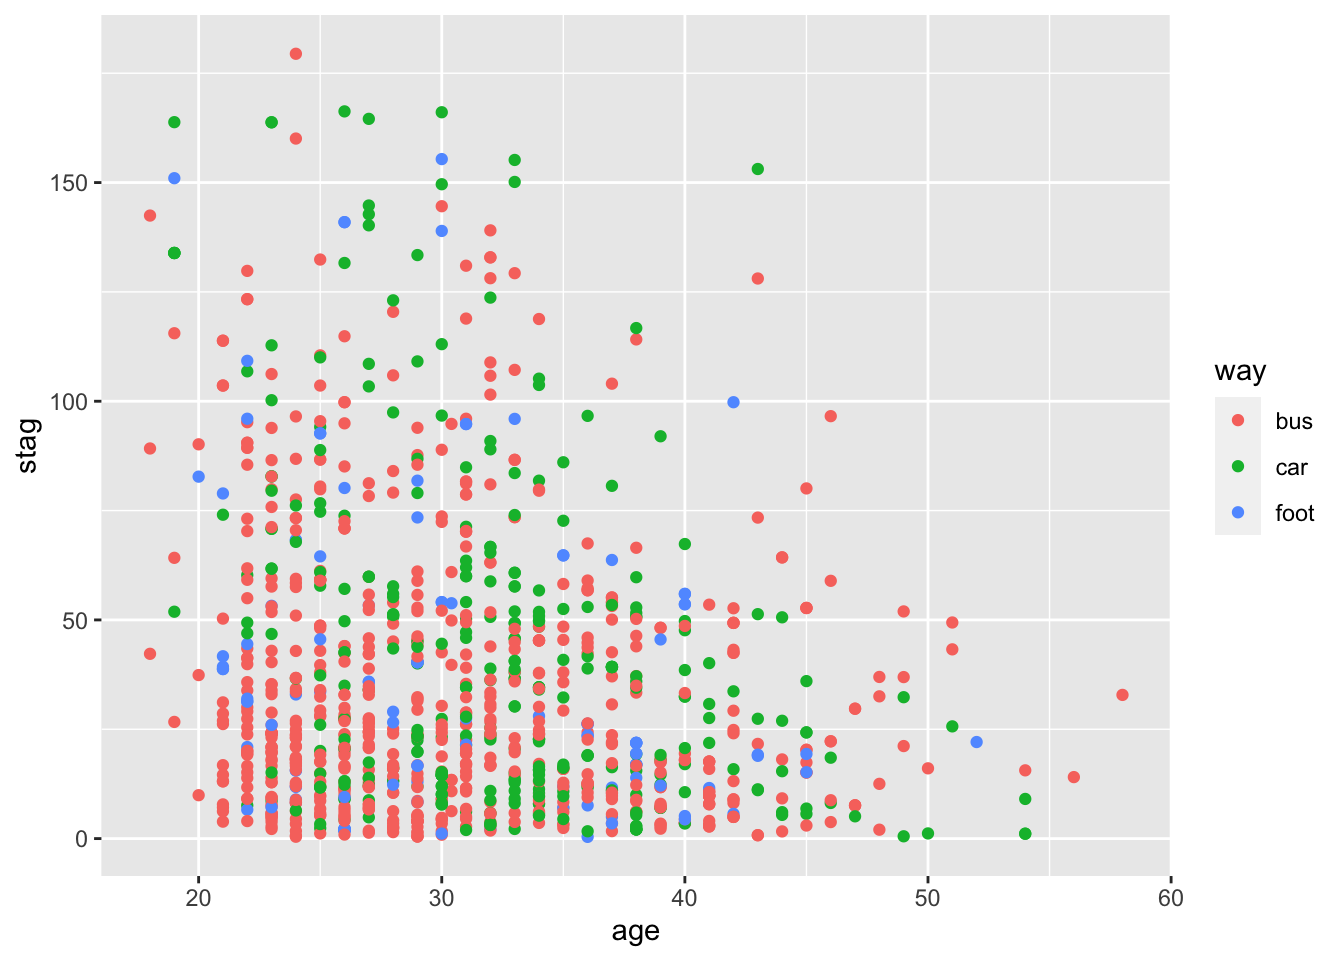
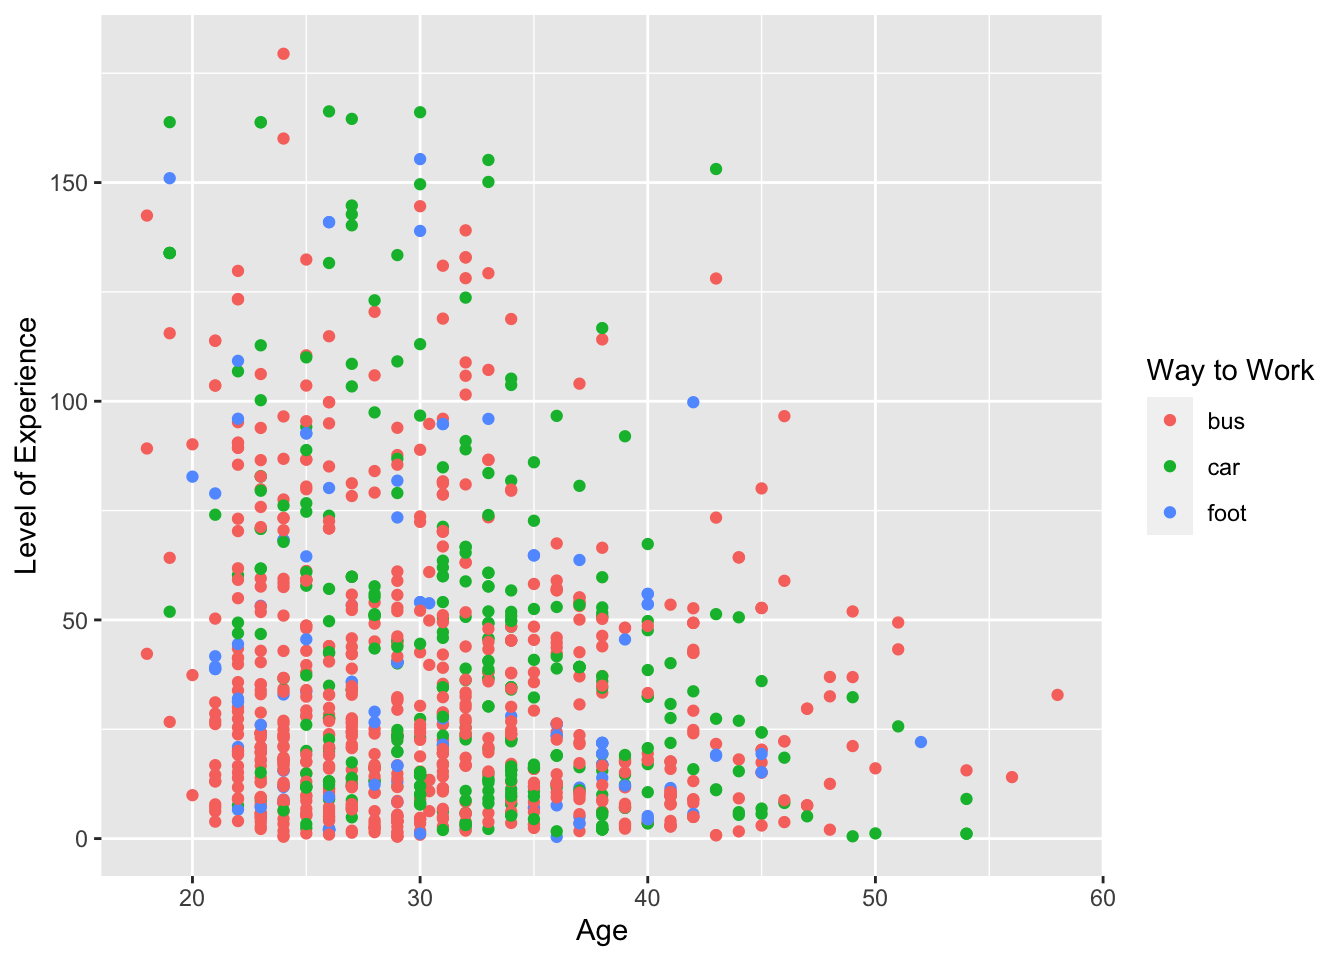
Blog Post 2 - Updates plot's labels.

diff --git a/content/post/2022-10-21-blog-post-2/index.html b/content/post/2022-10-21-blog-post-2/index.html
@@ -25,7 +25,7 @@ turnover_data_clean &lt;- turnover_data
 write_csv(turnover_data_clean, file = here::here(&quot;dataset&quot;, &quot;turnover.csv&quot;))
 
 save(turnover_data_clean, file = here::here(&quot;dataset/turnover.RData&quot;))</code></pre>
-<pre class="r"><code>ggplot(turnover_data_clean, aes(x=age, y=stag, color = way)) + geom_point()</code></pre>
+<pre class="r"><code>ggplot(turnover_data_clean, aes(x=age, y=stag, color = way)) + geom_point() + labs(x = &quot;Age&quot;, y = &quot;Level of Experience&quot;, color = &quot;Way to Work&quot;)</code></pre>
 <p><img src="{{< blogdown/postref >}}index_files/figure-html/unnamed-chunk-2-1.png" width="672" /></p>
 <pre class="r"><code>turnover_lm &lt;- lm(data=turnover_data_clean, stag~age)
 summary(turnover_lm)</code></pre>
